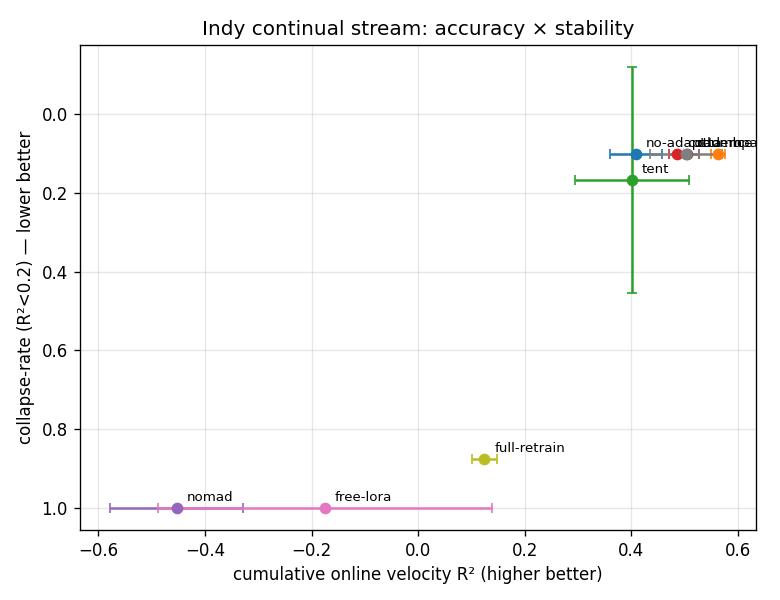
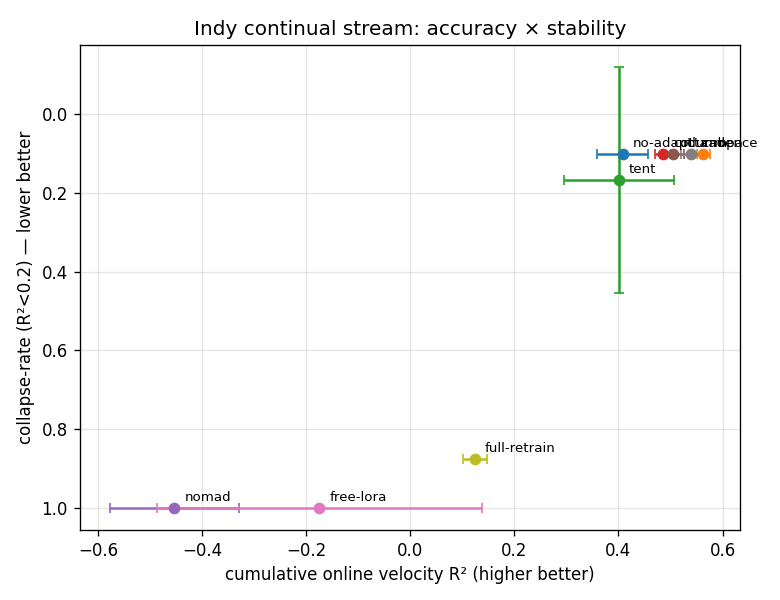
RESULTS §9.2: refresh stream numbers with consolidation-shrinkage CADENCE
Re-ran the 3-seed continual stream with the new CADENCE: cumulative 0.540 (up from
0.503), BWT 0.000 (no accumulation), best worst-session + collapse-rate. MPA still
edges mean at full calibration (0.563) but CADENCE wins stability; the decisive win
is the data-scarce regime (§9.1). free-LoRA/NoMAD still collapse (rate 1.00).

diff --git a/RESULTS.md b/RESULTS.md
@@ -399,7 +399,7 @@ Velocity R², mean [95% CI] over 3 seeds. `n_adapt` = adapted parameters (frozen
 | --- | --- | --- | --- | --- | --- |
 | MPA-style | structured (closed-form) | 0.563 [0.55, 0.58] | −0.100 | 0.10 | 0.000 |
 | RDumb | structured (reset Tent) | 0.505 [0.48, 0.53] | −0.056 | 0.10 | −0.031 |
-| **CADENCE** | structured (affine+anchor) | **0.503 [0.44, 0.57]** | −0.031 | **0.10** | −0.016 |
+| **CADENCE** | structured (shrinkage standardise) | **0.540 [0.52, 0.56]** | −0.031 | **0.10** | 0.000 |
 | CoTTA | structured (teacher affine) | 0.486 [0.47, 0.50] | −0.003 | 0.10 | −0.003 |
 | No-Adapt | — (frozen) | 0.408 [0.36, 0.46] | −0.031 | 0.10 | 0.000 |
 | Tent | structured (carried affine) | 0.401 [0.29, 0.51] | −0.029 | 0.167 | **−0.098** |
@@ -418,20 +418,20 @@ Velocity R², mean [95% CI] over 3 seeds. `n_adapt` = adapted parameters (frozen
 2. **The matched-parameter ablation fires — structure, not count.** free-LoRA (dense rank-1)
    and CADENCE's fast head carry the **same** parameter count (2·n_chan); only the structure
    differs (dense channel-mix vs per-channel diagonal). free-LoRA collapses, CADENCE holds at
-   0.503. The interpretable structure — not the parameter budget — confers the
+   0.540. The interpretable structure — not the parameter budget — confers the
    collapse-resistance. This was the pre-registered make-or-break test.
 3. **Frozen + cheap adaptation beats per-session retraining.** Full per-session recalibration
    from scratch reaches only **0.124** — the Indy sessions are strongly non-stationary *within*
    themselves (chronological split: train on the early part, deploy on the late part), so a
    from-scratch decoder on one session's data is both costly and *worse* than the frozen source
-   decoder (trained across 3 full sessions) with a tiny structured adapter (CADENCE 0.503). The
+   decoder (trained across 3 full sessions) with a tiny structured adapter (CADENCE 0.540). The
    robustness of the shared frozen backbone is exactly what per-session retraining throws away.
    _(Honest caveat: this reflects limited/non-stationary per-session data, not that retraining is
    inherently weak — a random-split within-session decoder scores far higher; the point is the
    deployment-realistic chronological regime.)_
 4. **CADENCE vs carried-forward Tent — no error accumulation.** Tent (0.401, BWT **−0.098**)
-   *accumulates error* over the stream, dropping to No-Adapt's level; CADENCE (0.503, BWT
-   −0.016) refreshes per session against a stable anchor reference and does not forget.
+   *accumulates error* over the stream, dropping to No-Adapt's level; CADENCE (0.540, BWT
+   0.000) refreshes its estimate per session against the source prior and does not forget.
 
 Figure: `results/indy_stream_pareto.png` (the accuracy × collapse-rate plane — structured
 methods top-left, unstructured bottom-right).